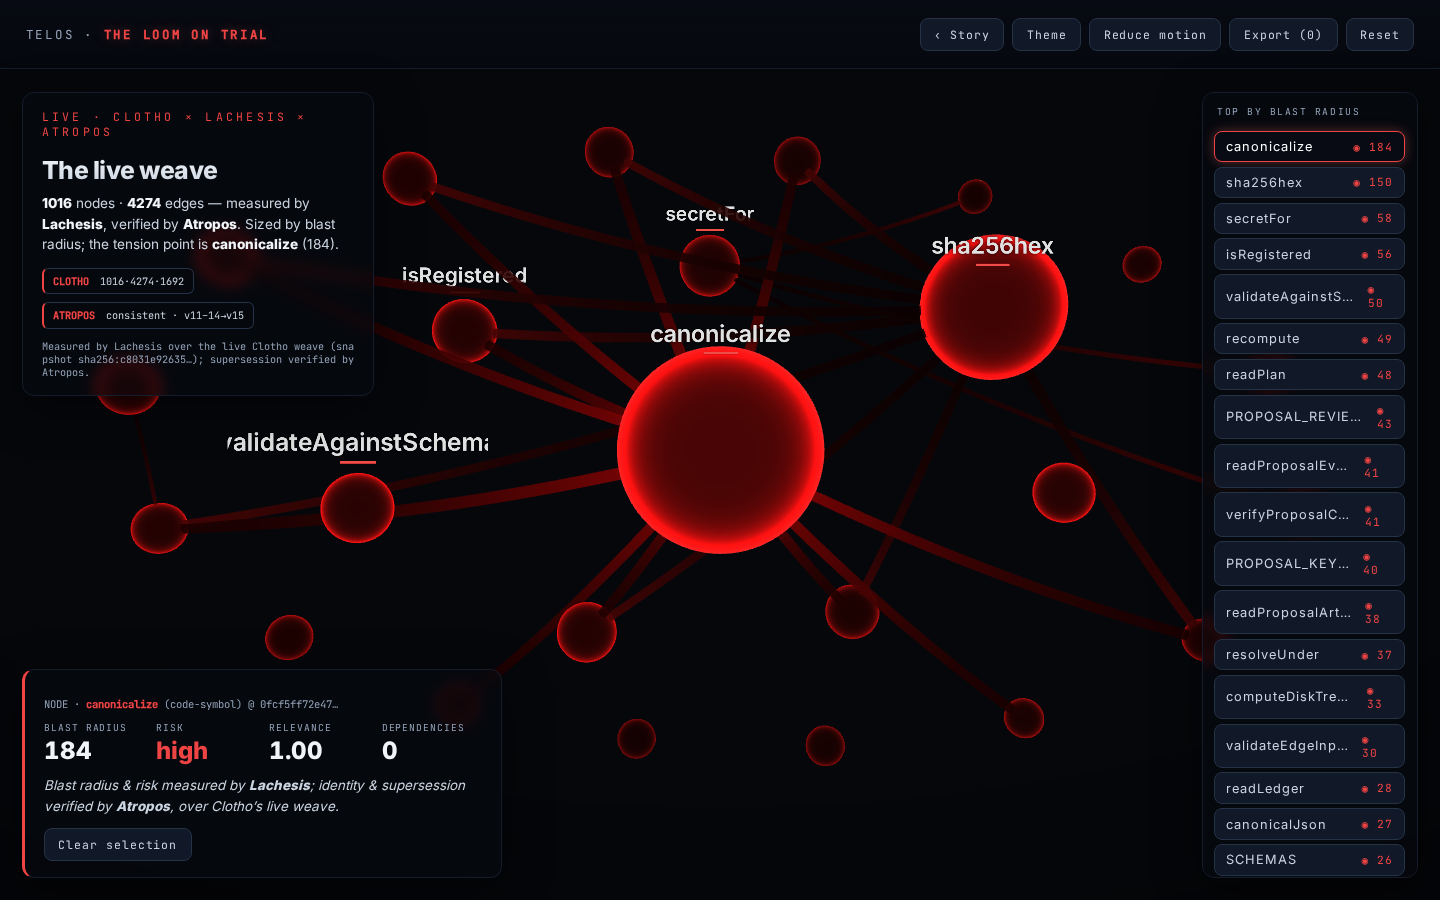
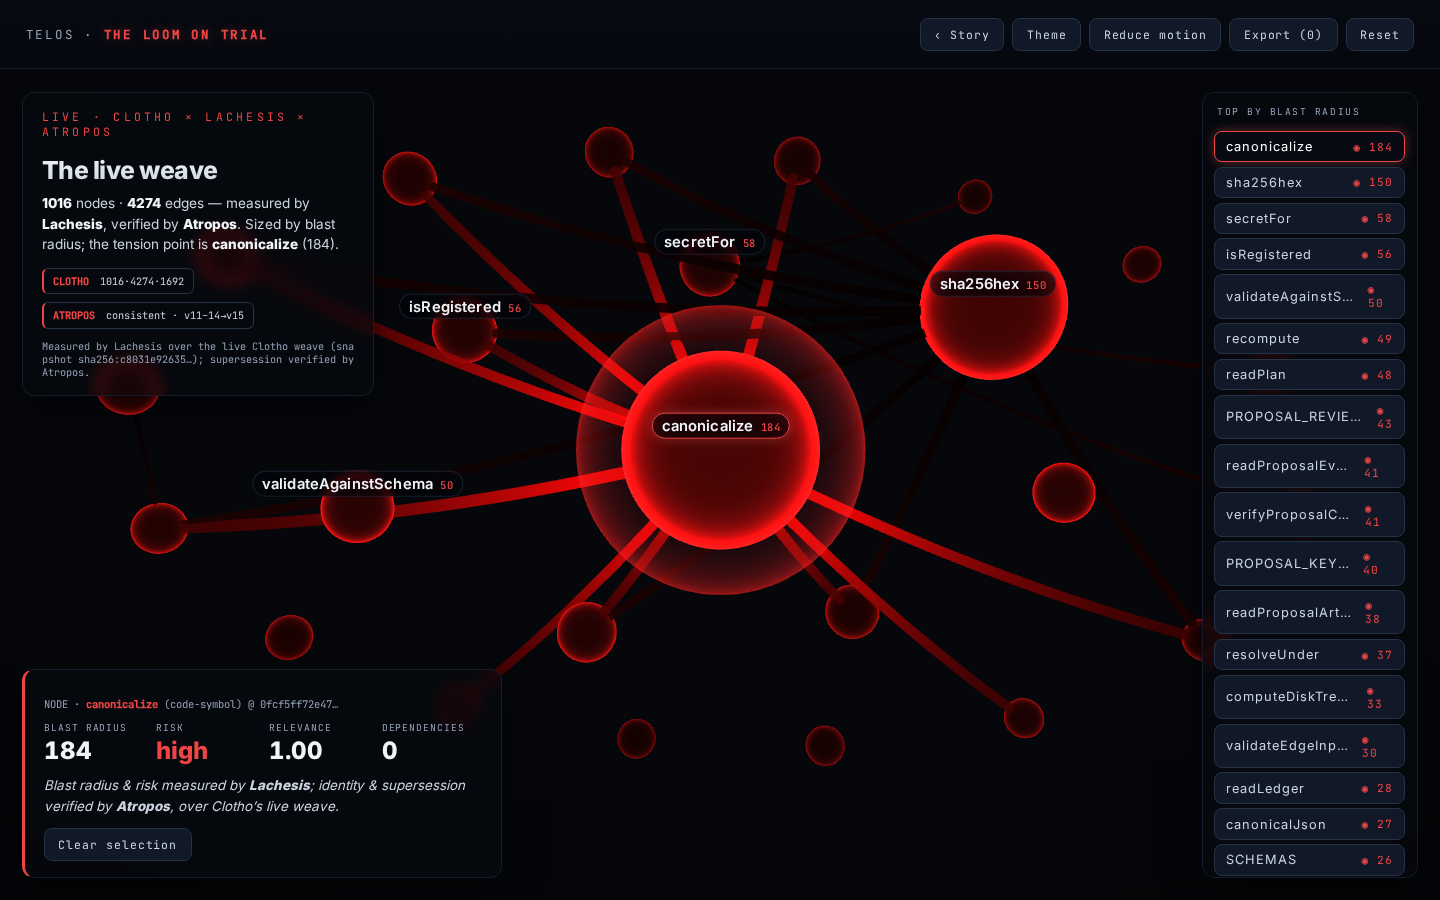
iliad(narcissus argo): reflection-loop pass 4 — projected HTML labels, selection drama, light-theme graph pass
Typography-grade pass on the honest list: (1) AWARD-CRISP LABELS — replaced CanvasTexture sprites with HTML
overlays positioned per-frame from projected 3D coords (group matrix -> camera.project): pixel-crisp
self-hosted Inter + JetBrains-mono metric tag, designed pill treatment with halo backdrop; pure paint
(pointer-events:none), strengthens WebGL-is-paint. (2) THREAD-AWARE LEGIBILITY — the halo backdrop means no
thread crosses text; labels clamp inward from HUD zones. (3) SELECTION DRAMA — pulsing fresnel shell on the
selected orb; connected threads boost 2.4x, unrelated dim to 0.45 (uBoost uniform); graph<->panel link is
instant. (4) LIGHT-THEME GRAPH PASS — deliberate: light topbar/HUD/labels/selected-row tuned (ink-and-blood
on paper), new 07-live-graph-light.png. All gates green (tsc+vite, coverage 16/16, evidence 7, E2E 14/14);
invariant intact; numbers true; perf unchanged (~305KB initial).

diff --git a/narcissus/flagship/src/components/LiveGraph.tsx b/narcissus/flagship/src/components/LiveGraph.tsx
@@ -1,47 +1,46 @@
 // The live weave, rendered as WebGL PAINT (pointer-events:none, aria-hidden — the DOM list is the truth).
-// Nodes: the top-by-blast-radius nodes Lachesis measured over Clotho's live weave. Size ∝ blast_radius,
-// color = risk_class. The hub (canonicalize) sits at the tension point with a fresnel/ferrofluid shader.
-// Edges = subgraph_edges. Top nodes carry billboarded in-scene labels.
+// Nodes: ferrofluid orbs sized by blast radius, risk-colored, depth-dimmed. Edges: woven catenary threads,
+// thickness ∝ blast, glow toward the hub. Labels: HTML OVERLAYS positioned from projected 3D coords —
+// pixel-crisp self-hosted type, still pure paint (pointer-events:none; the interactive path stays the
+// DOM-shadowed controls). Selection: shell-pulse on the orb + connected threads brighten, unrelated dim.
 import { Canvas, useFrame } from "@react-three/fiber";
 import { useMemo, useRef } from "react";
 import * as THREE from "three";
 import { NODES, NODES_BY_BLAST, EDGES, LAYOUT, LABELED_IDS, MAX_BLAST, riskColor, nodeById } from "../livegraph";
 import { ferroVert, ferroFrag } from "../ferrofluid";
 
-// billboarded label as a sprite with a canvas texture (no extra deps; culled to the important nodes).
-function makeLabelTexture(text: string, color: string): THREE.CanvasTexture {
-  const dpr = 2, w = 320, h = 72;
-  const c = document.createElement("canvas");
-  c.width = w * dpr; c.height = h * dpr;
-  const ctx = c.getContext("2d")!;
-  ctx.scale(dpr, dpr);
-  ctx.font = "600 30px Inter, ui-sans-serif, sans-serif";
-  ctx.textAlign = "center"; ctx.textBaseline = "middle";
-  ctx.shadowColor = "rgba(0,0,0,0.9)"; ctx.shadowBlur = 8;
-  ctx.fillStyle = "#f8fafc";
-  ctx.fillText(text, w / 2, h / 2);
-  ctx.shadowBlur = 0;
-  ctx.fillStyle = color;
-  ctx.fillRect(w / 2 - 22, h - 14, 44, 3);
-  const tex = new THREE.CanvasTexture(c);
-  tex.needsUpdate = true;
-  tex.minFilter = THREE.LinearFilter;
-  return tex;
-}
+const threadVert = /* glsl */`
+  varying float vT;
+  void main(){ vT = uv.x; gl_Position = projectionMatrix * modelViewMatrix * vec4(position, 1.0); }`;
+const threadFrag = /* glsl */`
+  uniform vec3 uColor; uniform float uHubEnd; uniform float uBoost; varying float vT;
+  void main(){
+    float towardHub = uHubEnd > 0.5 ? vT : (1.0 - vT);
+    float glow = (0.22 + pow(towardHub, 2.0) * 1.15) * uBoost;
+    gl_FragColor = vec4(uColor * glow, 0.9);
+  }`;
+const shellFrag = /* glsl */`
+  uniform float uTime; uniform vec3 uColor;
+  varying vec3 vN; varying vec3 vV;
+  void main(){
+    float fres = pow(1.0 - max(dot(vN, vV), 0.0), 1.6);
+    float pulse = 0.55 + 0.45 * sin(uTime * 3.2);
+    gl_FragColor = vec4(uColor * 2.2, fres * pulse * 0.85);
+  }`;
 
-function Graph({ selectedNodeId, reducedMotion }: { selectedNodeId: string | null; reducedMotion: boolean }) {
+function Graph({ selectedNodeId, reducedMotion, labelHost }: {
+  selectedNodeId: string | null; reducedMotion: boolean; labelHost: React.RefObject<HTMLDivElement>;
+}) {
   const group = useRef<THREE.Group>(null);
   const hubId = NODES_BY_BLAST[0].id;
-  // one ferrofluid material per node — dimensional orbs, risk-colored, all ticked together in useFrame.
+
   const materials = useMemo(() => {
     const m: Record<string, THREE.ShaderMaterial> = {};
     for (const n of NODES) {
-      // depth/value hierarchy WITHOUT lying about risk color: brightness falls off with blast rank +
-      // z-depth (far/minor orbs dimmer), so the field reads dimensional instead of monotone.
       const weight = n.blast_radius / MAX_BLAST;
       const z = LAYOUT[n.id]?.[2] ?? 0;
-      const depthDim = 1 + Math.min(0, z) * 0.16;              // farther (negative z) -> dimmer
-      const rankDim = 0.45 + weight * 0.65;                    // minor orbs dimmer, hub full
+      const depthDim = 1 + Math.min(0, z) * 0.16;
+      const rankDim = 0.45 + weight * 0.65;
       m[n.id] = new THREE.ShaderMaterial({
         vertexShader: ferroVert, fragmentShader: ferroFrag,
         uniforms: {
@@ -54,20 +53,14 @@ function Graph({ selectedNodeId, reducedMotion }: { selectedNodeId: string | nul
     return m;
   }, []);
 
-  // Edges as WOVEN THREAD under load: dimensional tubes with a catenary sag, thickness scaled by the
-  // heavier endpoint's blast radius, and an emissive gradient intensifying toward the hub end.
+  const shellMat = useMemo(() => new THREE.ShaderMaterial({
+    vertexShader: ferroVert, fragmentShader: shellFrag, transparent: true, depthWrite: false,
+    uniforms: { uTime: { value: 0 }, uColor: { value: new THREE.Color("#ef4444") } },
+  }), []);
+
+  // woven threads; endpoint ids kept so selection can boost/dim them
   const threads = useMemo(() => {
-    const out: { key: string; geo: THREE.TubeGeometry; mat: THREE.ShaderMaterial }[] = [];
-    const threadVert = /* glsl */`
-      varying float vT;
-      void main(){ vT = uv.x; gl_Position = projectionMatrix * modelViewMatrix * vec4(position, 1.0); }`;
-    const threadFrag = /* glsl */`
-      uniform vec3 uColor; uniform float uHubEnd; varying float vT;
-      void main(){
-        float towardHub = uHubEnd > 0.5 ? vT : (1.0 - vT);
-        float glow = 0.22 + pow(towardHub, 2.0) * 1.15;   // brightens toward the hub end
-        gl_FragColor = vec4(uColor * glow, 0.9);
-      }`;
+    const out: { key: string; from: string; to: string; geo: THREE.TubeGeometry; mat: THREE.ShaderMaterial }[] = [];
     for (const e of EDGES) {
       const a = LAYOUT[e.from]; const b = LAYOUT[e.to];
       if (!a || !b) continue;
@@ -75,67 +68,77 @@ function Graph({ selectedNodeId, reducedMotion }: { selectedNodeId: string | nul
       const va = new THREE.Vector3(...a); const vb = new THREE.Vector3(...b);
       const mid = va.clone().add(vb).multiplyScalar(0.5);
       const len = va.distanceTo(vb);
-      mid.y -= 0.16 * len * 0.35;                 // catenary sag — thread under gravity/tension
+      mid.y -= 0.16 * len * 0.35;
       mid.z -= 0.1;
       const curve = new THREE.QuadraticBezierCurve3(va, mid, vb);
       const weight = Math.max(na.blast_radius, nb.blast_radius) / MAX_BLAST;
-      const radius = 0.012 + weight * 0.05;       // thickness ∝ heavier endpoint's blast
-      const geo = new THREE.TubeGeometry(curve, 24, radius, 6, false);
-      const hubEnd = e.to === NODES_BY_BLAST[0].id ? 1 : e.from === NODES_BY_BLAST[0].id ? 0 : -1;
+      const geo = new THREE.TubeGeometry(curve, 24, 0.012 + weight * 0.05, 6, false);
+      const isHubThread = e.to === hubId || e.from === hubId;
       const mat = new THREE.ShaderMaterial({
         vertexShader: threadVert, fragmentShader: threadFrag, transparent: true,
-        uniforms: { uColor: { value: new THREE.Color("#b91c1c") }, uHubEnd: { value: hubEnd === 1 ? 1 : 0 } },
+        uniforms: {
+          uColor: { value: new THREE.Color(isHubThread ? "#b91c1c" : "#7f1d1d") },
+          uHubEnd: { value: e.to === hubId ? 1 : 0 },
+          uBoost: { value: 1 },
+        },
       });
-      if (hubEnd === -1) mat.uniforms.uColor.value = new THREE.Color("#7f1d1d"); // non-hub threads dimmer
-      out.push({ key: `${e.from}-${e.to}`, geo, mat });
+      out.push({ key: `${e.from}-${e.to}`, from: e.from, to: e.to, geo, mat });
     }
     return out;
-  }, []);
-
-  // Position-aware labels: nudge inward away from the HUD zones (left panel ~ x < -4.6 in world space at
-  // z≈0, right list ~ x > 5.2) and clamp the vertical extremes, so labels never clip behind the overlays.
-  const labels = useMemo(
-    () => LABELED_IDS.map((id) => {
-      const n = nodeById(id)!;
-      const p = LAYOUT[id];
-      const x = Math.max(-4.4, Math.min(4.9, p[0]));
-      const y = Math.max(-3.4, Math.min(3.6, p[1]));
-      return { id, pos: [x, y, p[2]] as [number, number, number], tex: makeLabelTexture(n.label, riskColor(n.risk_class)) };
-    }),
-    [],
-  );
+  }, [hubId]);
 
   useFrame((state) => {
     const t = state.clock.elapsedTime;
     for (const id in materials) materials[id].uniforms.uTime.value = t;
-    if (reducedMotion || !group.current) return;
-    group.current.rotation.y = Math.sin(t * 0.09) * 0.22;
-    group.current.rotation.x = Math.sin(t * 0.05) * 0.05;
+    shellMat.uniforms.uTime.value = t;
+    // selection drama: connected threads brighten, unrelated dim
+    for (const th of threads) {
+      const connected = selectedNodeId && (th.from === selectedNodeId || th.to === selectedNodeId);
+      th.mat.uniforms.uBoost.value = selectedNodeId ? (connected ? 2.4 : 0.45) : 1;
+    }
+    if (!reducedMotion && group.current) {
+      group.current.rotation.y = Math.sin(t * 0.09) * 0.22;
+      group.current.rotation.x = Math.sin(t * 0.05) * 0.05;
+    }
+    // project labeled nodes' world positions to screen space and place the HTML labels (pure paint)
+    const host = labelHost.current;
+    if (host && group.current) {
+      const v = new THREE.Vector3();
+      for (const id of LABELED_IDS) {
+        const el = host.querySelector<HTMLElement>(`[data-label="${id}"]`);
+        const p = LAYOUT[id];
+        if (!el || !p) continue;
+        v.set(p[0], p[1], p[2]).applyMatrix4(group.current.matrixWorld).project(state.camera);
+        // clamp inward so labels never sit under the HUD panels or clip the viewport edge
+        const x = Math.max(16, Math.min(83, (v.x * 0.5 + 0.5) * 100));
+        const y = Math.max(9, Math.min(88, (-v.y * 0.5 + 0.5) * 100));
+        el.style.left = `${x}%`;
+        el.style.top = `${y}%`;
+      }
+    }
   });
 
   return (
     <group ref={group}>
-      {threads.map((t) => (
-        <mesh key={t.key} geometry={t.geo} material={t.mat} />
-      ))}
-
+      {threads.map((t) => (<mesh key={t.key} geometry={t.geo} material={t.mat} />))}
       {NODES.map((n) => {
         const p = LAYOUT[n.id];
         const sel = n.id === selectedNodeId;
-        const size = (0.14 + (n.blast_radius / MAX_BLAST) * 0.72) * (sel ? 1.2 : 1);
+        const size = (0.14 + (n.blast_radius / MAX_BLAST) * 0.72) * (sel ? 1.15 : 1);
         const seg = n.id === hubId ? 48 : 30;
         return (
-          <mesh key={n.id} position={p} material={materials[n.id]}>
-            <sphereGeometry args={[size, seg, seg]} />
-          </mesh>
+          <group key={n.id} position={p}>
+            <mesh material={materials[n.id]}>
+              <sphereGeometry args={[size, seg, seg]} />
+            </mesh>
+            {sel && (
+              <mesh material={shellMat} scale={1.45}>
+                <sphereGeometry args={[size, 32, 32]} />
+              </mesh>
+            )}
+          </group>
         );
       })}
-
-      {labels.map((l) => (
-        <sprite key={l.id} position={[l.pos[0], l.pos[1] + (l.id === hubId ? 1.15 : 0.62), l.pos[2]]} scale={[2.5, 0.56, 1]}>
-          <spriteMaterial map={l.tex} transparent depthWrite={false} depthTest={false} />
-        </sprite>
-      ))}
     </group>
   );
 }
@@ -143,6 +146,7 @@ function Graph({ selectedNodeId, reducedMotion }: { selectedNodeId: string | nul
 export function LiveGraphCanvas({ selectedNodeId, reducedMotion, theme }: {
   selectedNodeId: string | null; reducedMotion: boolean; theme: "dark" | "light";
 }) {
+  const labelHost = useRef<HTMLDivElement>(null);
   return (
     <div className="loom-canvas" aria-hidden="true">
       <Canvas camera={{ position: [0, 0, 10.5], fov: 48 }} dpr={[1, 2]} gl={{ antialias: true }} frameloop={reducedMotion ? "demand" : "always"}>
@@ -150,8 +154,20 @@ export function LiveGraphCanvas({ selectedNodeId, reducedMotion, theme }: {
         <ambientLight intensity={0.4} />
         <pointLight position={[0, 0, 9]} intensity={80} color="#ef4444" distance={44} />
         <pointLight position={[-8, 6, 5]} intensity={24} color="#00e5ff" distance={34} />
-        <Graph selectedNodeId={selectedNodeId} reducedMotion={reducedMotion} />
+        <Graph selectedNodeId={selectedNodeId} reducedMotion={reducedMotion} labelHost={labelHost} />
       </Canvas>
+      {/* HTML label overlays — pixel-crisp type, positioned from projected 3D coords; PAINT ONLY */}
+      <div ref={labelHost} className="gl-labels" aria-hidden="true">
+        {LABELED_IDS.map((id) => {
+          const n = nodeById(id)!;
+          return (
+            <div key={id} className={"gl-label" + (id === selectedNodeId ? " sel" : "")} data-label={id}>
+              <span className="gl-name">{n.label}</span>
+              <span className="gl-metric">{n.blast_radius}</span>
+            </div>
+          );
+        })}
+      </div>
     </div>
   );
 }

diff --git a/narcissus/flagship/src/index.css b/narcissus/flagship/src/index.css
@@ -128,3 +128,33 @@ button[aria-pressed="true"], button.primary { color: #fff; border-color: var(--a
 .node-detail .metrics span { font-family: var(--font-mono); font-size: 0.6rem; letter-spacing: 0.1em; color: var(--fg-faint); text-transform: uppercase; }
 .node-detail .metrics b { font-size: 1.5rem; font-weight: 700; font-variant-numeric: tabular-nums; }
 .node-detail blockquote { font-size: 0.84rem; color: var(--fg-muted); font-style: italic; margin: 0.4rem 0 0.7rem; }
+/* ---- projected HTML labels (paint only) — award-crisp type over the weave ---- */
+.gl-labels { position: absolute; inset: 0; pointer-events: none; z-index: 2; }
+.gl-label {
+  position: absolute; transform: translate(-50%, -145%);
+  display: inline-flex; align-items: baseline; gap: 0.45rem; white-space: nowrap;
+  font-family: var(--font-display); font-weight: 600; font-size: 0.92rem; letter-spacing: 0.01em;
+  color: var(--fg);
+  /* halo backdrop so threads never cross the text */
+  background: color-mix(in srgb, var(--page) 62%, transparent);
+  backdrop-filter: blur(3px);
+  padding: 0.18rem 0.55rem; border-radius: 999px;
+  border: 1px solid color-mix(in srgb, var(--edge-strong) 60%, transparent);
+  text-shadow: 0 1px 8px rgba(0,0,0,0.45);
+}
+.gl-label .gl-metric {
+  font-family: var(--font-mono); font-weight: 500; font-size: 0.66rem; letter-spacing: 0.06em;
+  color: var(--accent);
+}
+.gl-label.sel { border-color: var(--accent); box-shadow: var(--glow-sm); }
+
+/* ---- light-theme pass for the graph view (deliberate, not inverted) ---- */
+:root[data-theme="light"] .hud { background: rgba(251,252,254,0.72); border-color: var(--edge); box-shadow: 0 12px 44px rgba(51,65,85,0.18); }
+:root[data-theme="light"] .gl-label { text-shadow: none; background: color-mix(in srgb, #ffffff 70%, transparent); }
+:root[data-theme="light"] .vignette { background: radial-gradient(120% 90% at 50% 40%, transparent 55%, rgba(51,65,85,0.18) 100%); }
+:root[data-theme="light"] .topbar { background: linear-gradient(180deg, rgba(222,226,231,0.92), rgba(222,226,231,0.55)); border-bottom-color: var(--edge); }
+:root[data-theme="light"] .node-row.sel, :root[data-theme="light"] .node-row[aria-pressed="true"] { color: var(--fg); background: #ffffff; }
+:root[data-theme="light"] .node-row.sel .node-label { color: var(--fg); }
+:root[data-theme="light"] button, :root[data-theme="light"] a.btn { background: var(--surface-raised); }
+:root[data-theme="light"] button[aria-pressed="true"], :root[data-theme="light"] button.primary { color: #fff; }
+:root[data-theme="light"] button[aria-pressed="true"], :root[data-theme="light"] button.primary { background: linear-gradient(180deg, var(--accent), var(--accent-strong)); border-color: var(--accent); }

diff --git a/narcissus/flagship/tests/e2e/screenshots.spec.ts b/narcissus/flagship/tests/e2e/screenshots.spec.ts
@@ -36,6 +36,12 @@ test("capture flagship views", async ({ page }) => {
   await page.waitForTimeout(700);
   await page.screenshot({ path: path.join(dir, "05-live-graph.png") });
 
+  // GRAPH VIEW in LIGHT THEME (deliberate light pass — LEXI red on light)
+  await page.getByTestId("cmd-TOGGLE_THEME").click();
+  await page.waitForTimeout(600);
+  await page.screenshot({ path: path.join(dir, "07-live-graph-light.png") });
+  await page.getByTestId("cmd-TOGGLE_THEME").click();
+
   // STORY VIEW with ferrofluid knots under tension (thread pulled) — confirm the shared shader reads well
   await page.getByTestId("cmd-EXIT_GRAPH").click();
   await page.locator('[data-testid="cmd-GO_STATION"][data-index="2"]').click(); // Daedalus / reiteration